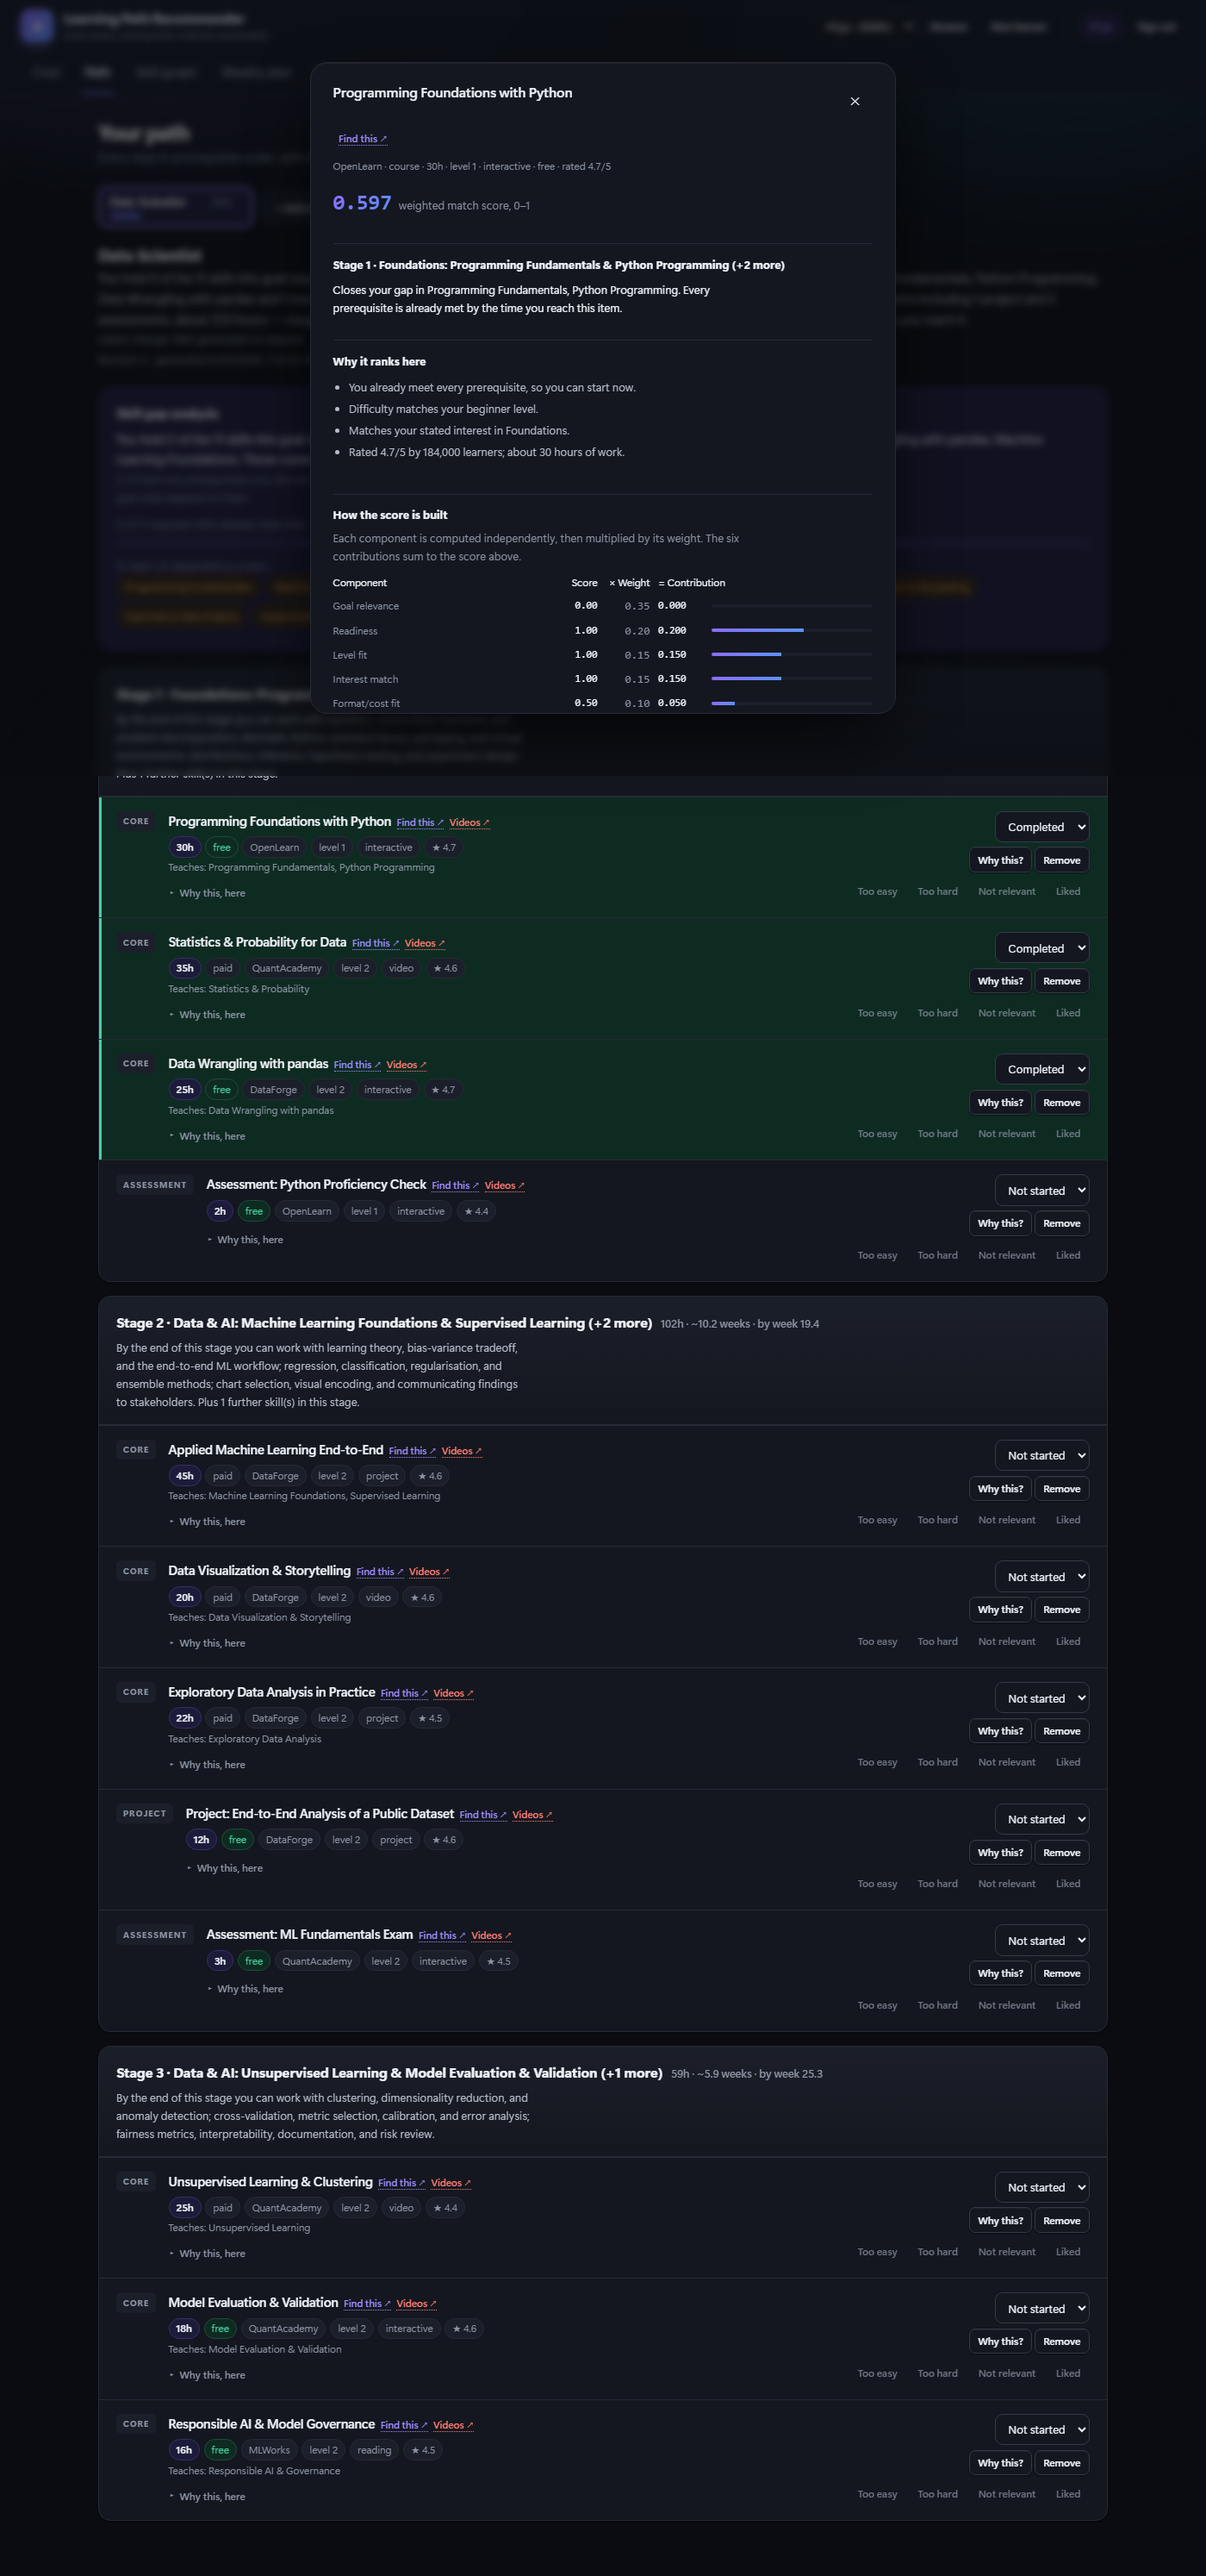
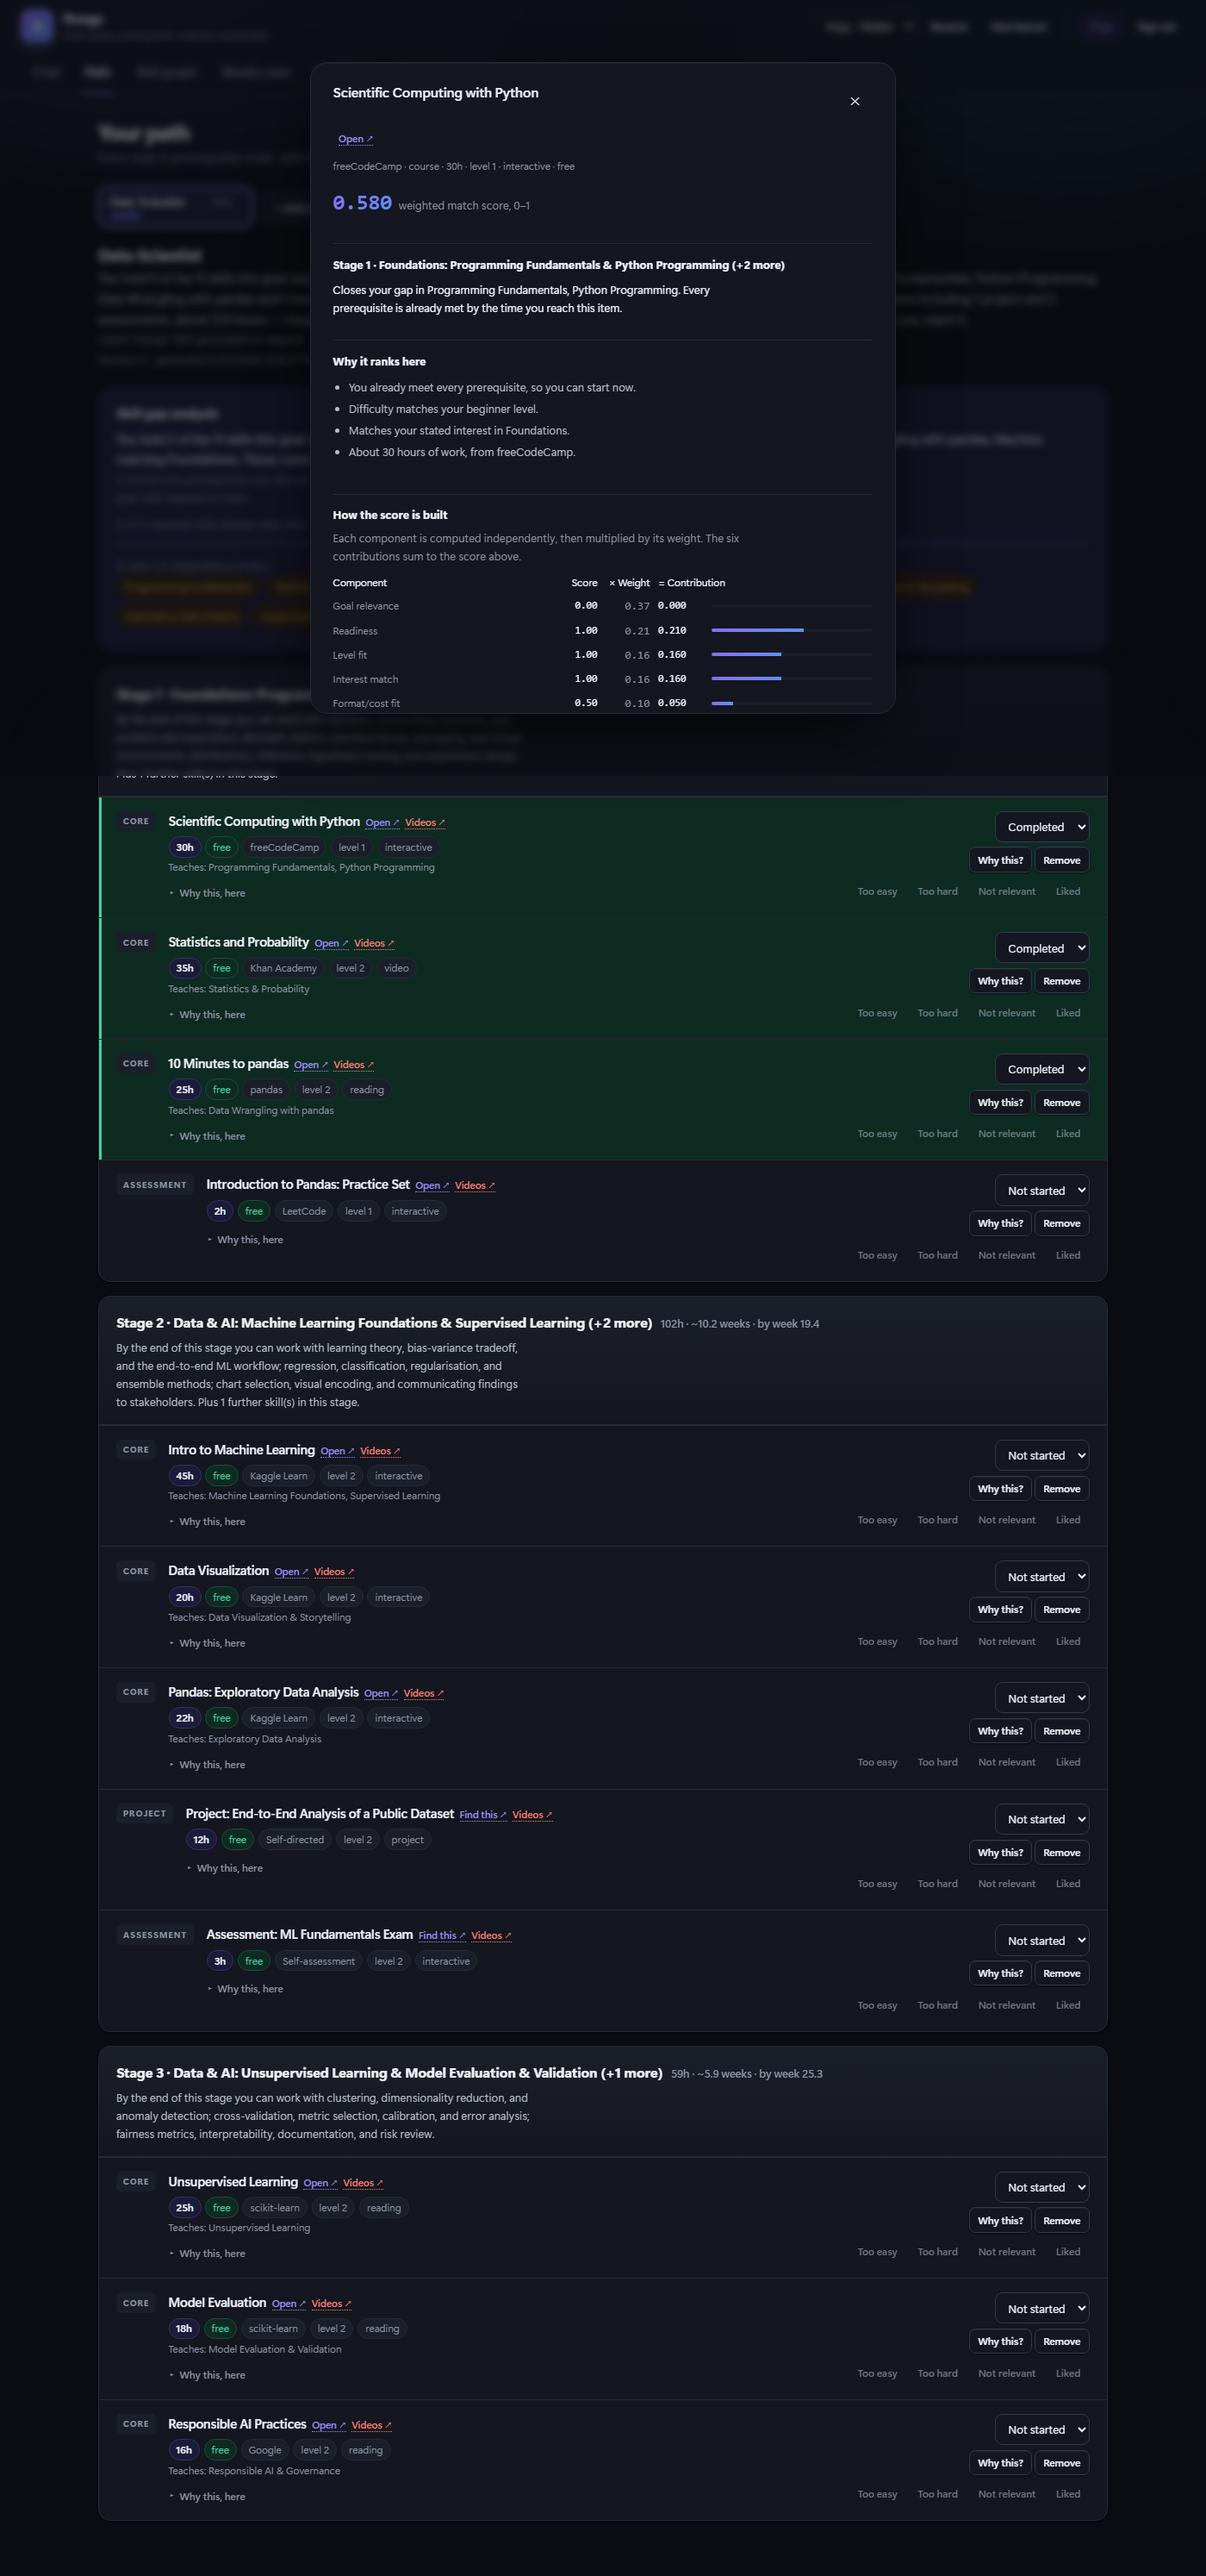
Tell the truth about cost and format, and reshoot every screen
Replacing the providers left two fields describing the old fiction. Khan
Academy, Kaggle Learn, scikit-learn and OpenStax were all marked "paid" —
61 items in total — which is both false and load-bearing, because a
learner who prefers free material is scored against that field. Three
items genuinely cost money and only those are marked so now: the AWS and
CKA certification exams, and Interaction Design Foundation, which is
membership-gated.

Format had the same problem: Kaggle Learn is interactive notebooks, not
video, and OpenStax is a textbook. 85 corrections, taken from what each
source actually is.

Two tests pinned the old data by name — a provider of "WebCraft" and a
format of "interactive" — and now read both from the catalogue, so
replacing a resource cannot break them again.

All ten screenshots reshot against the renamed, relinked build.

diff --git a/tests/test_engines.py b/tests/test_engines.py
@@ -287,7 +287,7 @@ def test_liked_builds_provider_and_format_affinity(catalog):
     # Whatever the catalogue says this item's provider is — not a name
     # pinned here, which broke the moment the real one replaced the invented one.
     assert profile.provider_affinity.get(catalog.items["c-react"].provider) == 1
-    assert profile.format_affinity.get("interactive") == 1
+    assert profile.format_affinity.get(catalog.items["c-react"].format) == 1
 
 
 def test_difficulty_offset_is_clamped(catalog):
